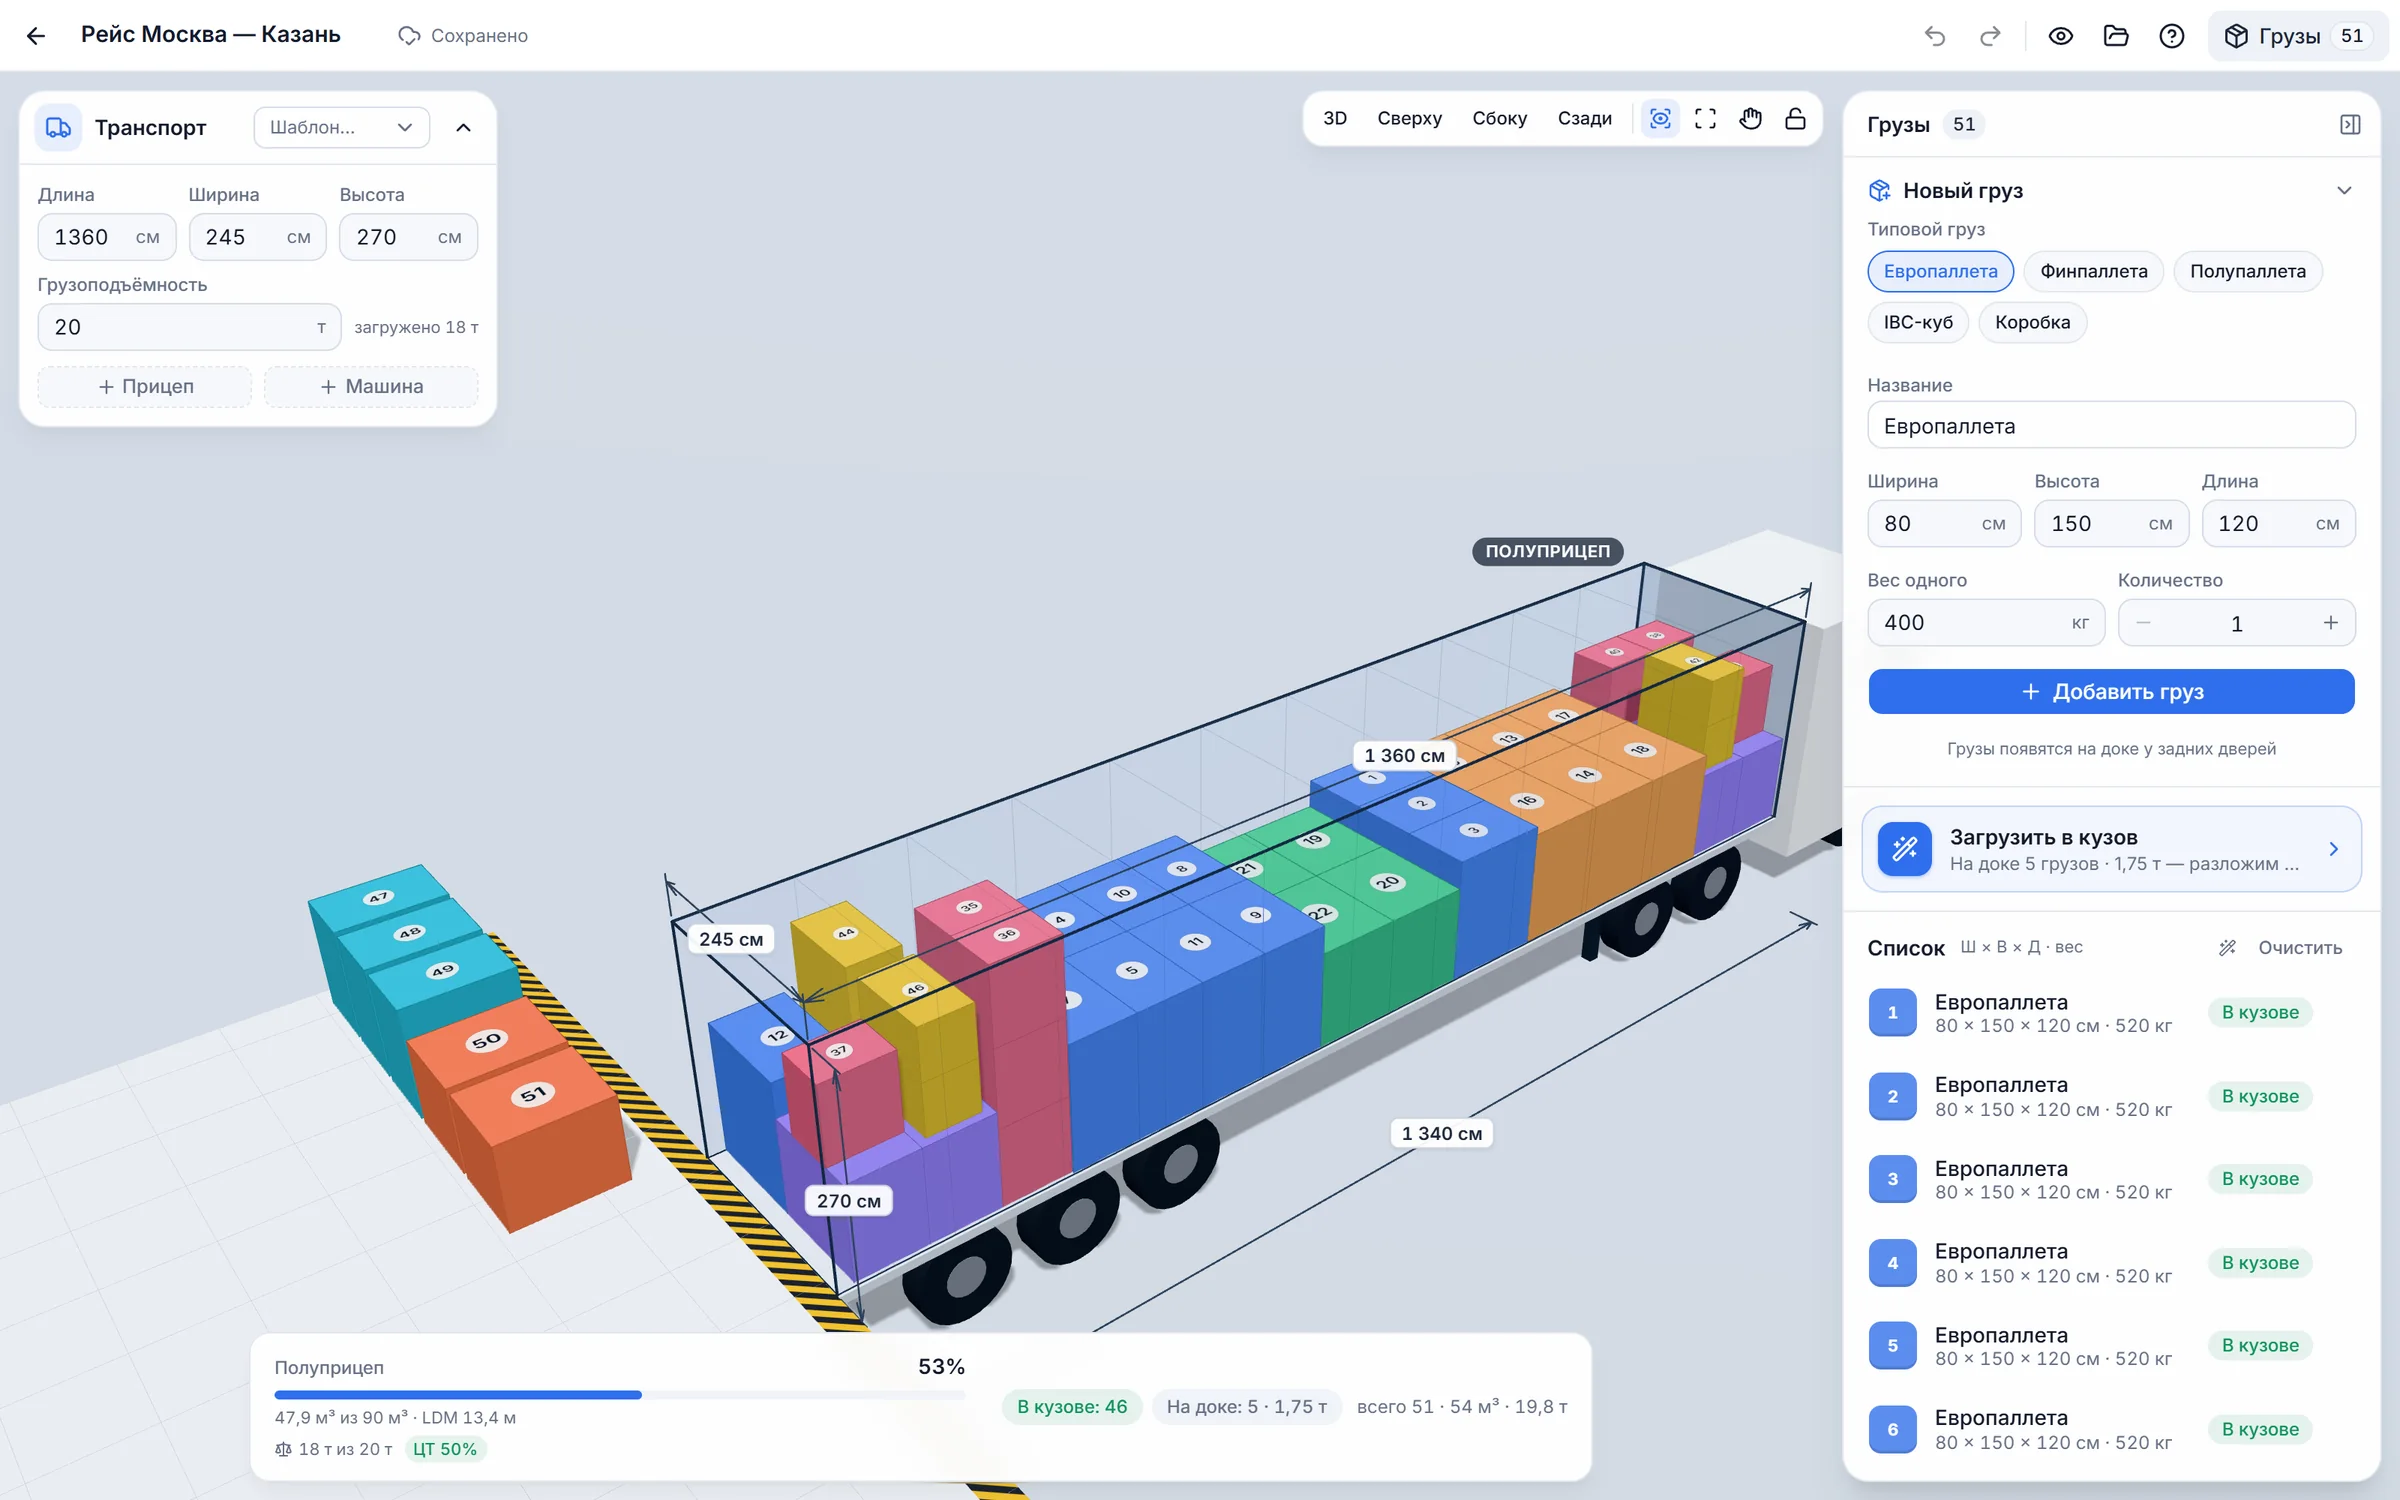
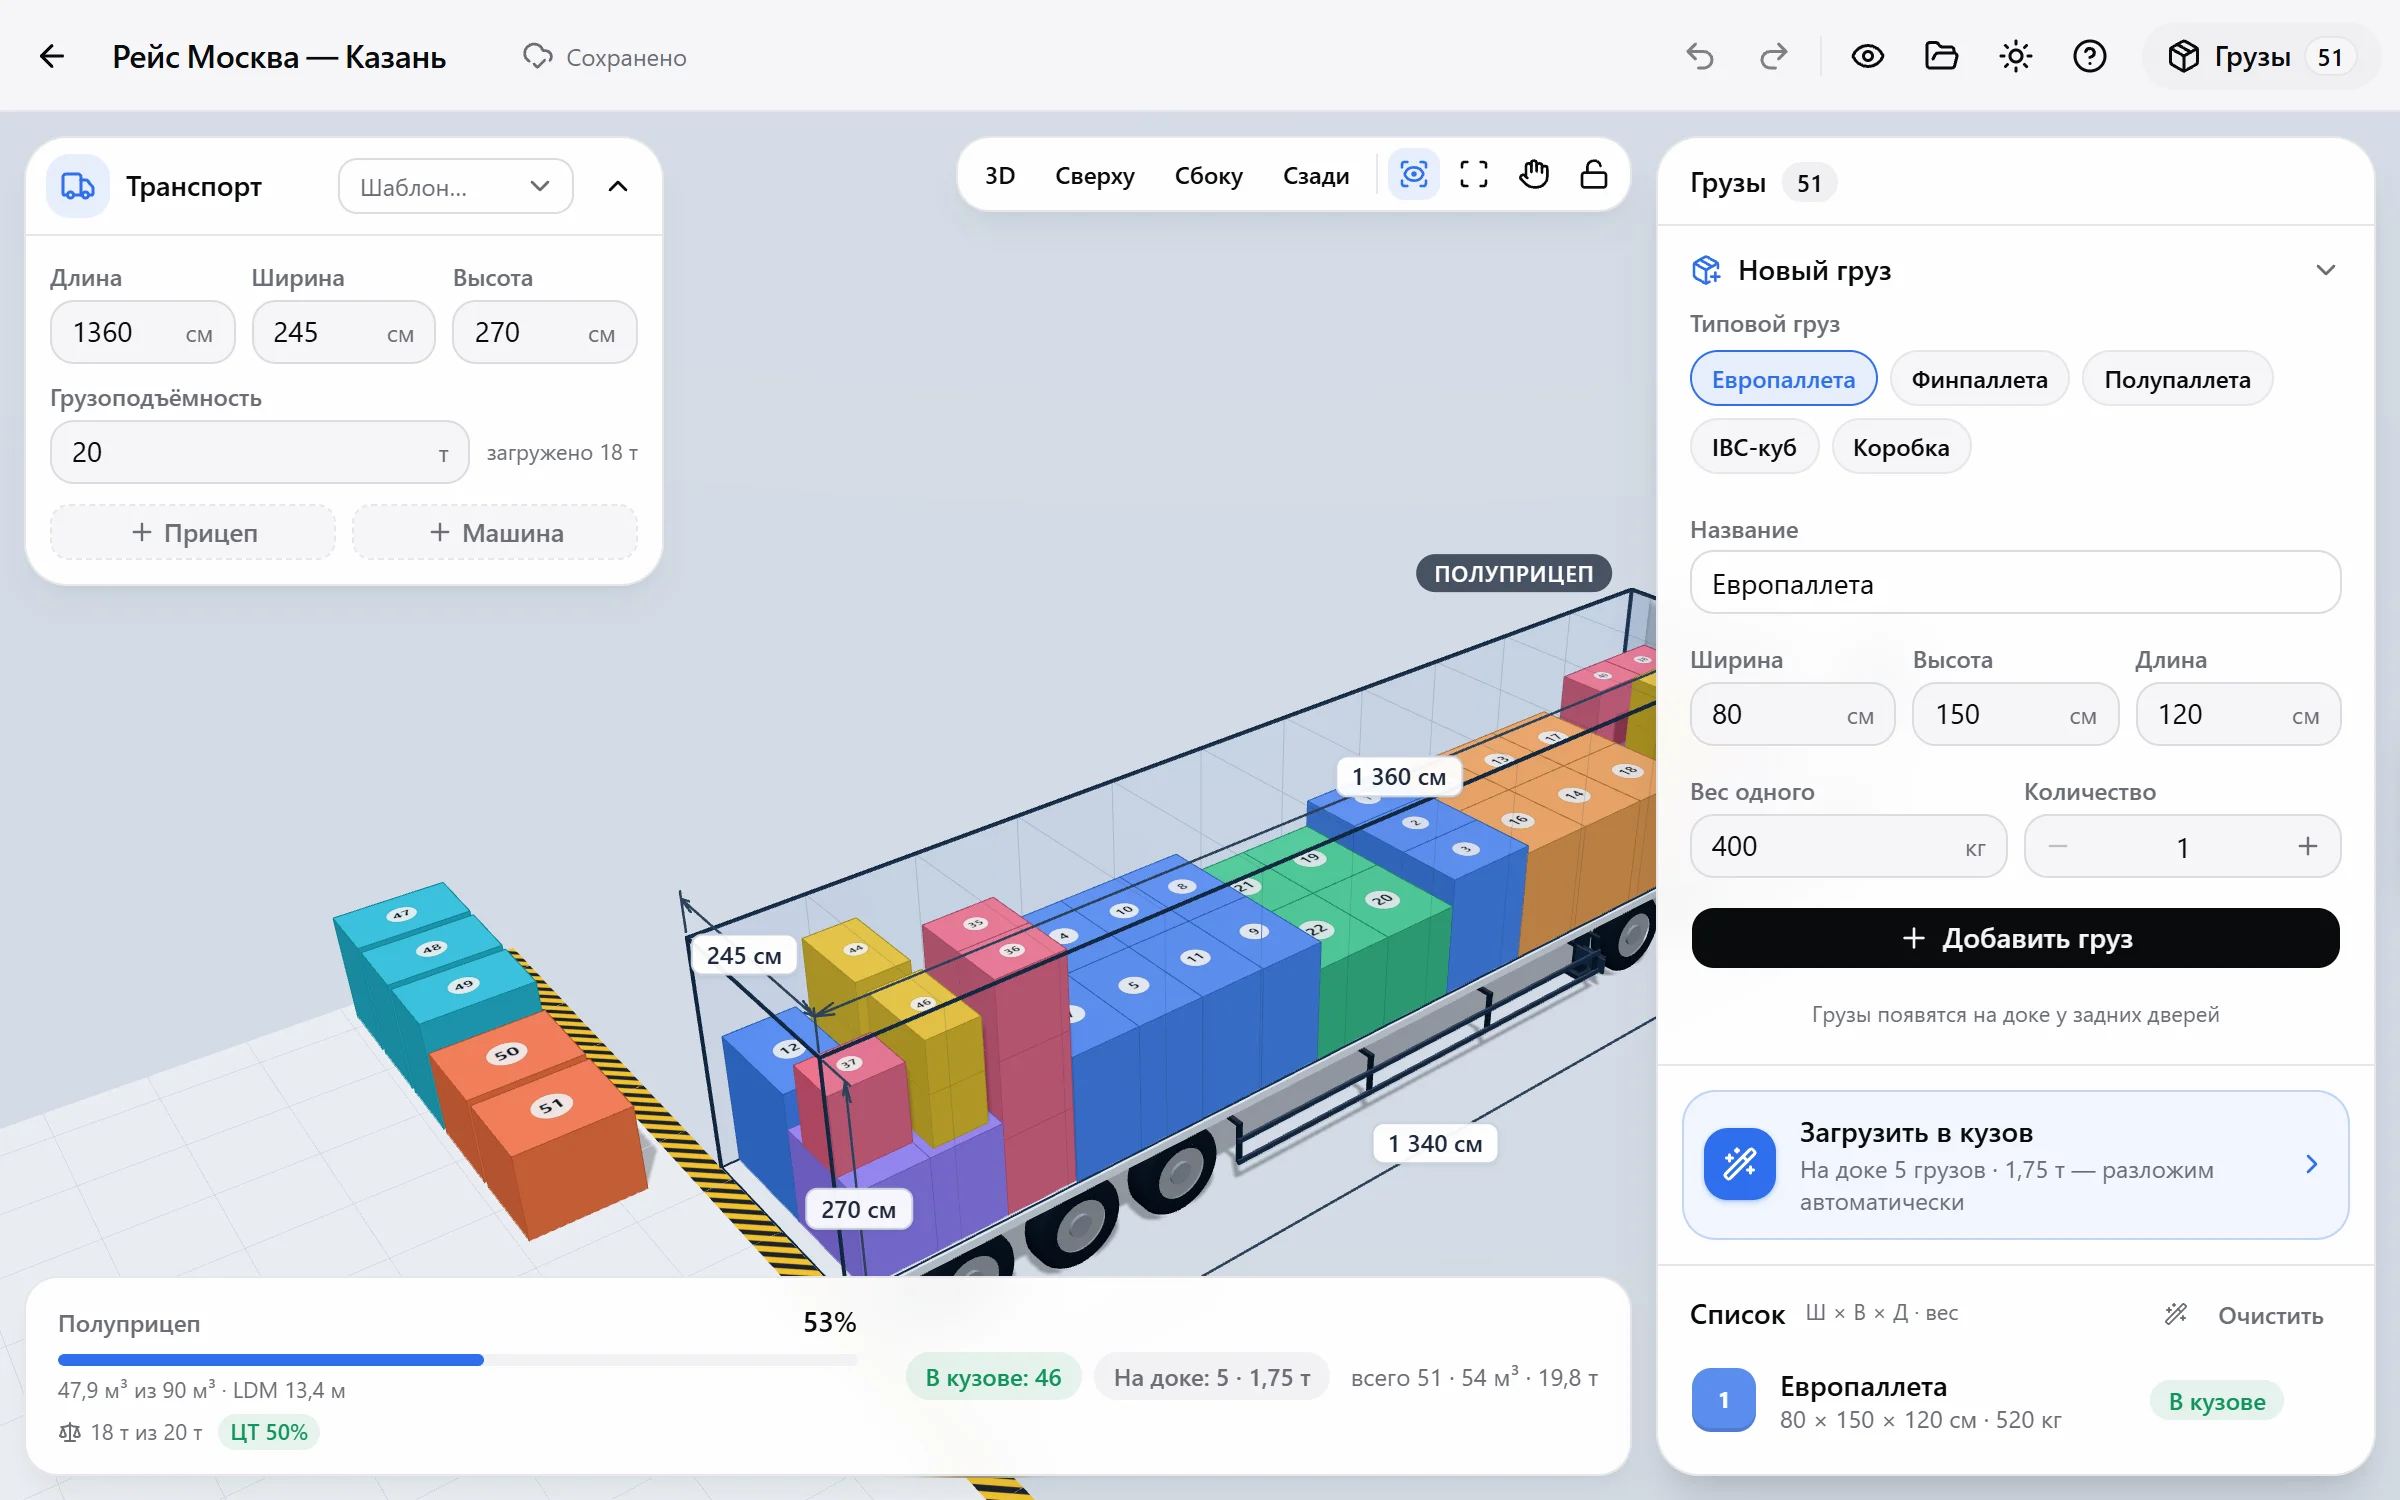
Re-shoot the landing pictures with the new interface and vehicles
All screenshots on the landing page come from the current editor (light theme, the demo plan
«Рейс Москва — Казань»): the editor, the 3D, side and top views with the new truck, the transport and
new cargo panels, autoload, PDF export and the stats bar; og.jpg has the new logo and truck. Image
sizes in LandingPage follow the new files.

diff --git a/src/pages/LandingPage.tsx b/src/pages/LandingPage.tsx
@@ -135,8 +135,8 @@ const STEPS = [
     text: 'Еврофура, мега, реф, сцепка, контейнер — или свои размеры кузова и грузоподъёмность.',
     image: {
       src: '/landing/transport.webp',
-      width: 644,
-      height: 455,
+      width: 640,
+      height: 450,
       alt: 'Панель «Транспорт»: размеры кузова и грузоподъёмность',
     },
   },
@@ -145,8 +145,8 @@ const STEPS = [
     text: 'Типовые паллеты и IBC в один клик или свои места: размеры, вес, количество.',
     image: {
       src: '/landing/cargo.webp',
-      width: 715,
-      height: 829,
+      width: 716,
+      height: 839,
       alt: 'Форма «Новый груз»: типовые грузы, размеры, вес и количество',
     },
   },
@@ -451,8 +451,8 @@ function Features() {
             <div className="mt-auto pl-7 sm:pl-9">
               <Shot
                 src="/landing/scene.webp"
-                width={1600}
-                height={814}
+                width={1752}
+                height={890}
                 alt="3D-сцена: полуприцеп с паллетами и размерными линиями, грузы на доке"
                 className="w-full rounded-tl-2xl ring-1 ring-ink/[0.06]"
               />
@@ -499,8 +499,8 @@ function Features() {
             <div className="mt-auto overflow-hidden pt-6 pb-9 pl-7 sm:pl-9">
               <Shot
                 src="/landing/stats.webp"
-                width={1792}
-                height={197}
+                width={1608}
+                height={201}
                 alt="Статистика кузова в редакторе: заполнение 53%, LDM 13,4 м, 18 т из 20 т, центр тяжести 50%"
                 className="w-[720px] max-w-none rounded-2xl shadow-[0_16px_40px_-18px_rgba(10,11,13,0.3)] ring-1 ring-ink/[0.06]"
               />
@@ -539,16 +539,16 @@ function PdfPreview() {
         <p className="mt-4 text-xs text-ink/45">Вид сбоку</p>
         <Shot
           src="/landing/side.webp"
-          width={1800}
-          height={549}
+          width={2088}
+          height={612}
           alt="Вид сбоку на загруженный полуприцеп"
           className="mt-1.5 w-full rounded-lg"
         />
         <p className="mt-4 text-xs text-ink/45">Вид сверху</p>
         <Shot
           src="/landing/top.webp"
-          width={1800}
-          height={341}
+          width={2088}
+          height={396}
           alt="Вид сверху с номерами мест"
           className="mt-1.5 w-full rounded-lg"
         />
